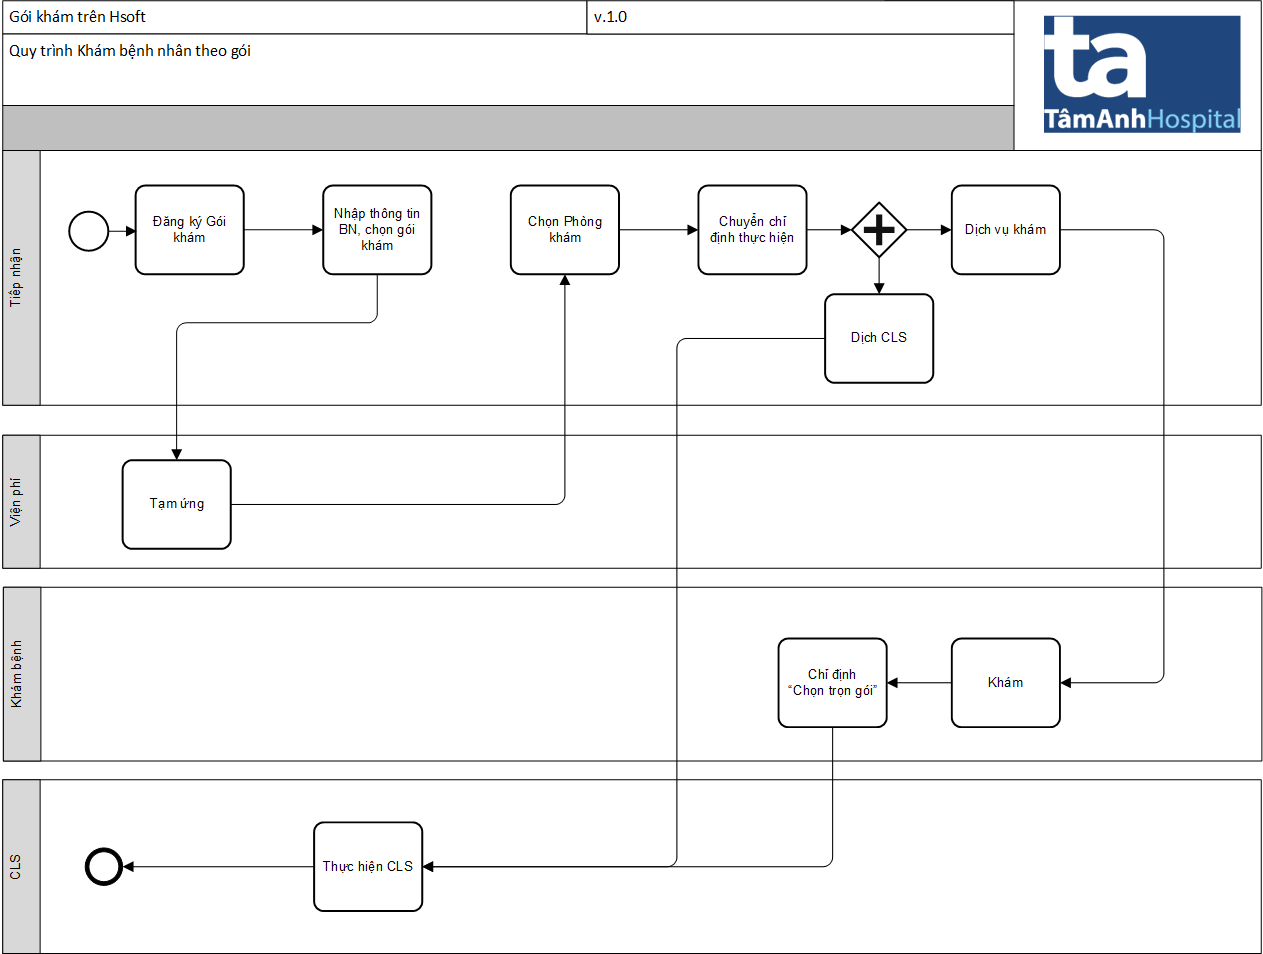
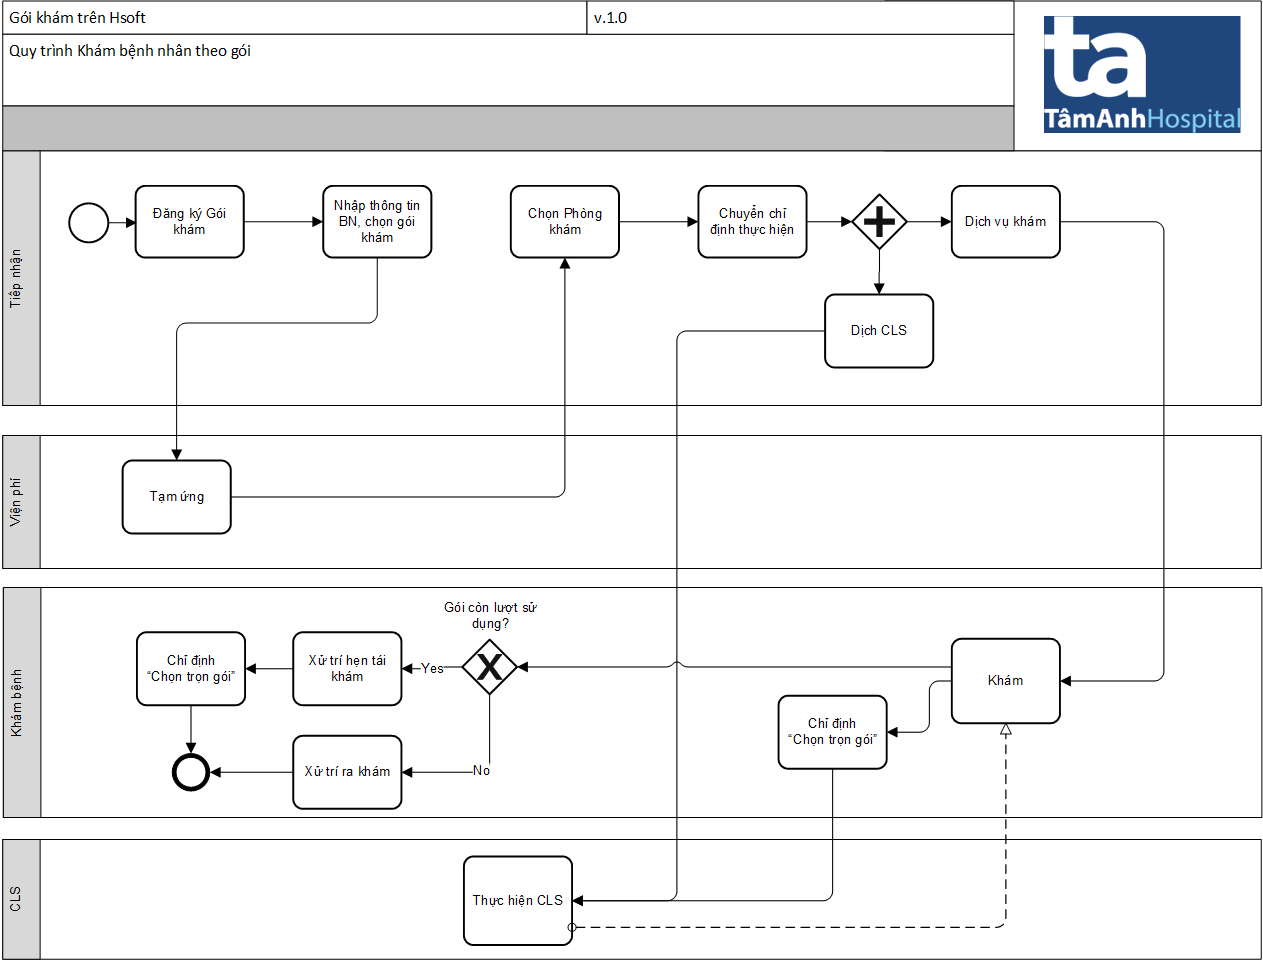
1
1

diff --git a/docs/Hsoft/vien-phi/tao-goi-kham.md b/docs/Hsoft/vien-phi/tao-goi-kham.md
@@ -1,0 +1,25 @@
+---
+sidebar_position: 1
+---
+
+# Tạo gói khám
+
+## Mô tả:
+Tạo gói khám để đăng ký khám tại `Đăng ký gói khám`
+## Step:
+
+1. Vào Viện phí >> `4.01.04. Giá viện phí`
+
+![alt text](./img/giavienphi-menu.png)
+
+2. Nhập thông tin gói, tích vào trọn gói và chọn "Chi tiết"
+
+![alt text](./img/giavienphi-thongtin.png)
+
+3. Form "*Khai báo chi tiết gói viện phí*" hiện lên, tích vào `Viện phí`
+
+![alt text](image.png)
+
+4. Tích chọn dịch vụ muốn thêm vào gói
+
+![alt text](image-1.png)

diff --git a/docs/Hsoft/quy-trinh/khambenh-goi-kham.md b/docs/Hsoft/quy-trinh/khambenh-goi-kham.md
@@ -61,5 +61,6 @@ Lúc này BN sẽ hiện diện tại Phòng khám
 
 ![alt text](./img/khambenh/kb-bngoikham-chontrongoi-chon.png)
 
-Như vậy là hoàn tất quy trình tiếp nhận khám gói
+Như vậy là hoàn tất quy trình tiếp nhận khám gói,
+Trường hợp gói còn lượt sử dụng, Bác sĩ có thể xử trí hẹn và "Chỉ định dịch vụ" chọn `Chọn trọn gói`
 
